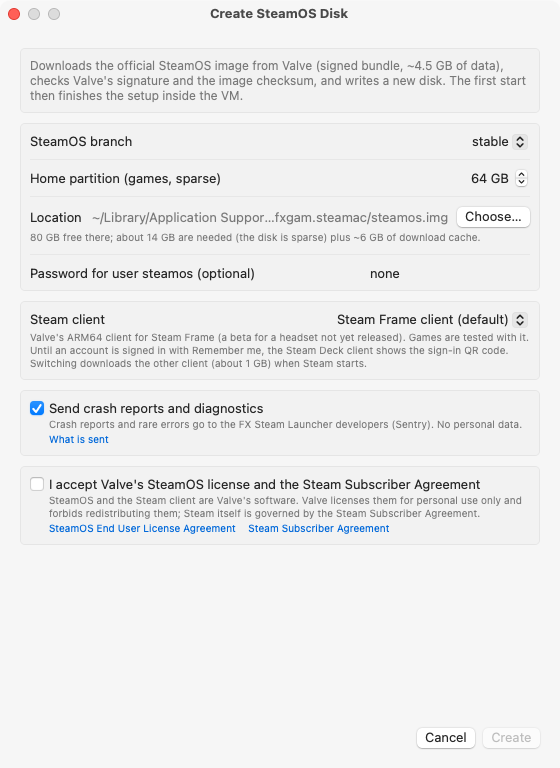
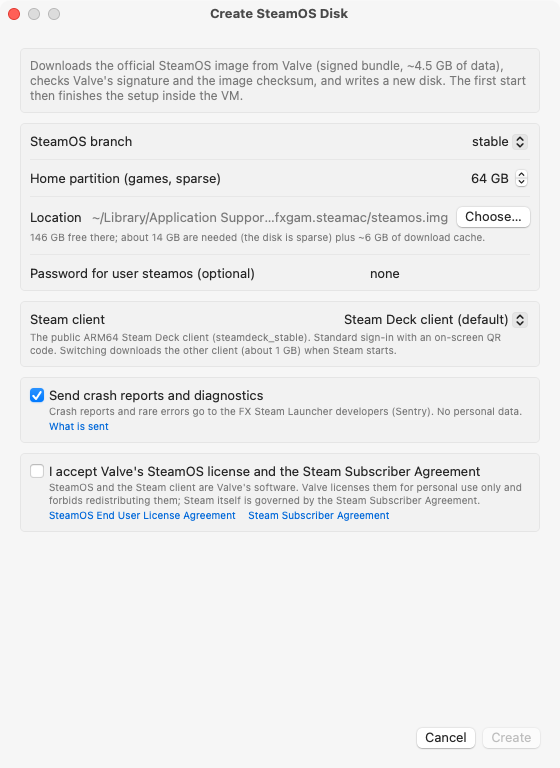
Pages: 1.6.1 — Steam Deck client by default; new Advanced and Create Disk screenshots

Changed region(s): [[0.0304, 0.4062, 0.9411, 0.7188], [0.0607, 0.2812, 0.85, 0.3125]]

diff --git a/docs/index.html b/docs/index.html
@@ -395,8 +395,8 @@
         </button></li>
         <li><button type="button" role="tab" data-tab="advanced" aria-selected="false">
           <b>Advanced</b>
-          <span lang="en">vCPUs and memory sized for your Mac automatically, or custom with a warning when you over-commit; SSH into SteamOS with one switch (off by default, a generated password per disk); network; the Steam client (Steam Frame, Steam Deck or Steam Deck beta); the Vulkan driver (MoltenVK, or the experimental KosmicKrisp on macOS 26 in builds that include it); the SteamOS disk — create a new one from Valve's servers or pick an existing image, never copied.</span>
-          <span lang="ru">vCPU и память подбираются под ваш Mac автоматически или задаются вручную — с предупреждением, если это слишком много; SSH в SteamOS одним переключателем (по умолчанию выключен, пароль генерируется для каждого диска); сеть; клиент Steam (Steam Frame, Steam Deck или Steam Deck beta); драйвер Vulkan (MoltenVK или экспериментальный KosmicKrisp на macOS 26 в сборках, где он есть); диск SteamOS — создать новый с серверов Valve или выбрать готовый образ, который никогда не копируется.</span>
+          <span lang="en">vCPUs and memory sized for your Mac automatically, or custom with a warning when you over-commit; SSH into SteamOS with one switch (off by default, a generated password per disk); network; the Steam client (Steam Deck by default, Steam Deck beta or Steam Frame); the Vulkan driver (MoltenVK, or the experimental KosmicKrisp on macOS 26 in builds that include it); the SteamOS disk — create a new one from Valve's servers or pick an existing image, never copied.</span>
+          <span lang="ru">vCPU и память подбираются под ваш Mac автоматически или задаются вручную — с предупреждением, если это слишком много; SSH в SteamOS одним переключателем (по умолчанию выключен, пароль генерируется для каждого диска); сеть; клиент Steam (по умолчанию Steam Deck, Steam Deck beta или Steam Frame); драйвер Vulkan (MoltenVK или экспериментальный KosmicKrisp на macOS 26 в сборках, где он есть); диск SteamOS — создать новый с серверов Valve или выбрать готовый образ, который никогда не копируется.</span>
         </button></li>
       </ol>
 
@@ -445,8 +445,9 @@
       </div>
 
       <div class="get-card">
-        <h3><span lang="en">New in 1.6</span><span lang="ru">Новое в 1.6</span></h3>
+        <h3><span lang="en">New in 1.6 and 1.6.1</span><span lang="ru">Новое в 1.6 и 1.6.1</span></h3>
         <ul class="news">
+          <li><span lang="en">1.6.1: the Steam Deck client is the default — the public ARM64 client with the standard on-screen QR sign-in; the Steam Frame client stays selectable in Settings → Advanced. If you never picked a client, the next start switches to the Steam Deck client and downloads it (about 1 GB)</span><span lang="ru">1.6.1: клиент Steam Deck стал клиентом по умолчанию — публичный ARM64-клиент с обычным входом по QR-коду на экране; клиент Steam Frame по-прежнему можно выбрать в Settings → Advanced. Если вы клиент не выбирали, при следующем запуске будет скачан клиент Steam Deck (около 1 ГБ)</span></li>
           <li><span lang="en">DirectX 12 games run: Stellar Blade Demo (Unreal Engine 4, vkd3d-proton) plays at 60 FPS at 1280×800 on an M4 Max. vkd3d-proton's descriptor heaps take ~0.1 MB per pipeline instead of ~100 MB, and pipelines build ~7× faster</span><span lang="ru">Игры на DirectX 12 запускаются: Stellar Blade Demo (Unreal Engine 4, vkd3d-proton) идёт на 60 FPS в 1280×800 на M4 Max. Кучи дескрипторов vkd3d-proton занимают ~0,1 МБ на конвейер вместо ~100 МБ, а конвейеры собираются примерно в 7 раз быстрее</span></li>
           <li><span lang="en">A pipeline the Mac's driver can't build no longer reaches Metal: its draws are skipped instead of binding an empty pipeline</span><span lang="ru">Конвейер, который драйвер Mac не смог собрать, больше не доходит до Metal: его отрисовка пропускается, а не идёт с пустым конвейером</span></li>
           <li><span lang="en">Settings → Advanced → Vulkan driver: MoltenVK (default) or the experimental KosmicKrisp — Mesa's driver on Metal 4, macOS 26+, in builds that include it (the release DMG is built on macOS 15 and ships MoltenVK only)</span><span lang="ru">Settings → Advanced → Vulkan driver: MoltenVK (по умолчанию) или экспериментальный KosmicKrisp — драйвер Mesa на Metal 4, macOS 26+, в сборках, где он есть (DMG релиза собран на macOS 15, в нём только MoltenVK)</span></li>
